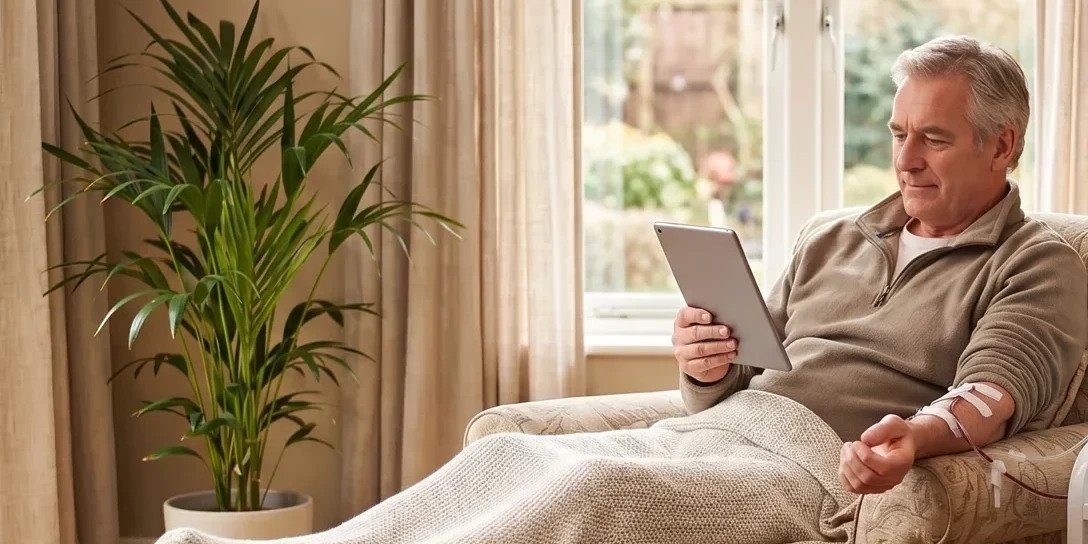
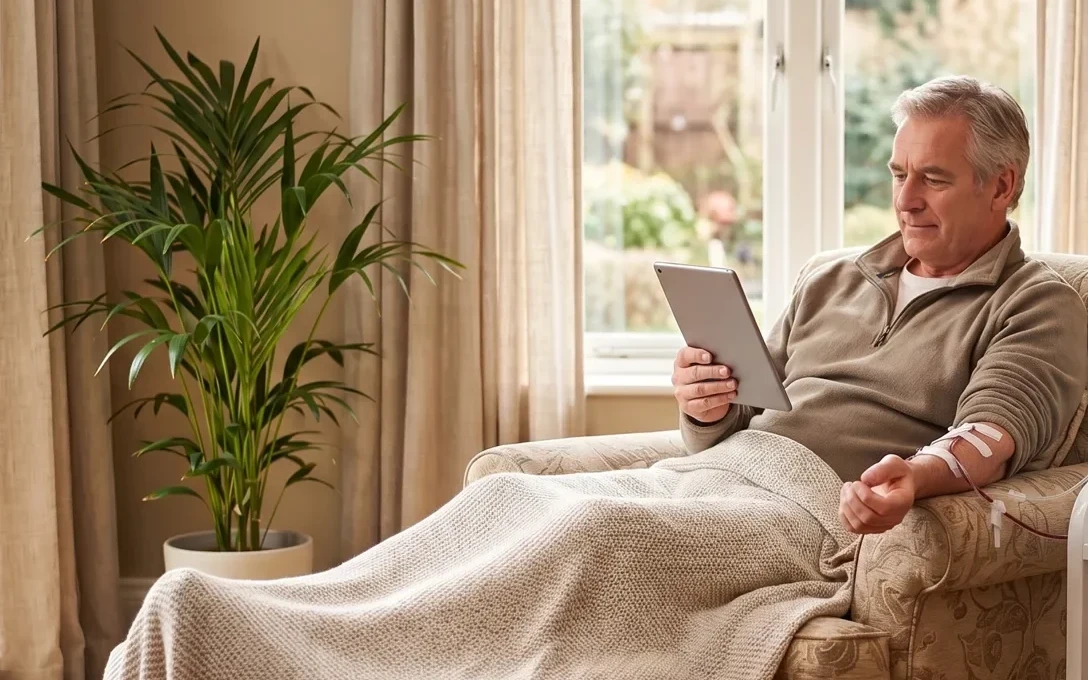
Add files via upload

diff --git a/style.css b/style.css
@@ -351,7 +351,7 @@ html:lang(ko) body { word-break: keep-all; overflow-wrap: anywhere; }
 .tri p { font-size: clamp(16px, 1.4vw, 19px); color: rgba(255,255,255,.82); }
 .tri-tags { position: absolute; top: 20px; left: 0; right: 0; z-index: 2; display: grid; grid-template-columns: repeat(3, 1fr); pointer-events: none; }
 .tri-tags span { justify-self: start; margin-left: 20px; font-size: 12px; font-weight: 600; letter-spacing: .1em; text-transform: uppercase; color: #fff; background: rgba(0,0,0,.32); backdrop-filter: blur(8px); -webkit-backdrop-filter: blur(8px); padding: 6px 10px; border-radius: 999px; }
-@media (max-width: 700px) { .tri { grid-template-columns: 1fr; grid-template-rows: repeat(3, 180px); height: auto; } .tri figcaption { position: relative; grid-row: 4; background: #111; } .tri::after { display: none; } .tri-tags { grid-template-columns: 1fr; grid-template-rows: repeat(3, 180px); top: 12px; bottom: auto; row-gap: 4px; } .tri-tags span { align-self: start; } }
+@media (max-width: 700px) { .tri { grid-template-columns: 1fr; grid-template-rows: repeat(3, 220px); height: auto; } .tri figcaption { position: relative; grid-row: 4; background: #111; } .tri::after { display: none; } .tri-tags { grid-template-columns: 1fr; grid-template-rows: repeat(3, 220px); top: 12px; bottom: auto; row-gap: 4px; } .tri-tags span { align-self: start; } }
 
 /* Size comparison bars (product page) */
 .bars { margin-top: var(--s5); display: grid; gap: 14px; }
